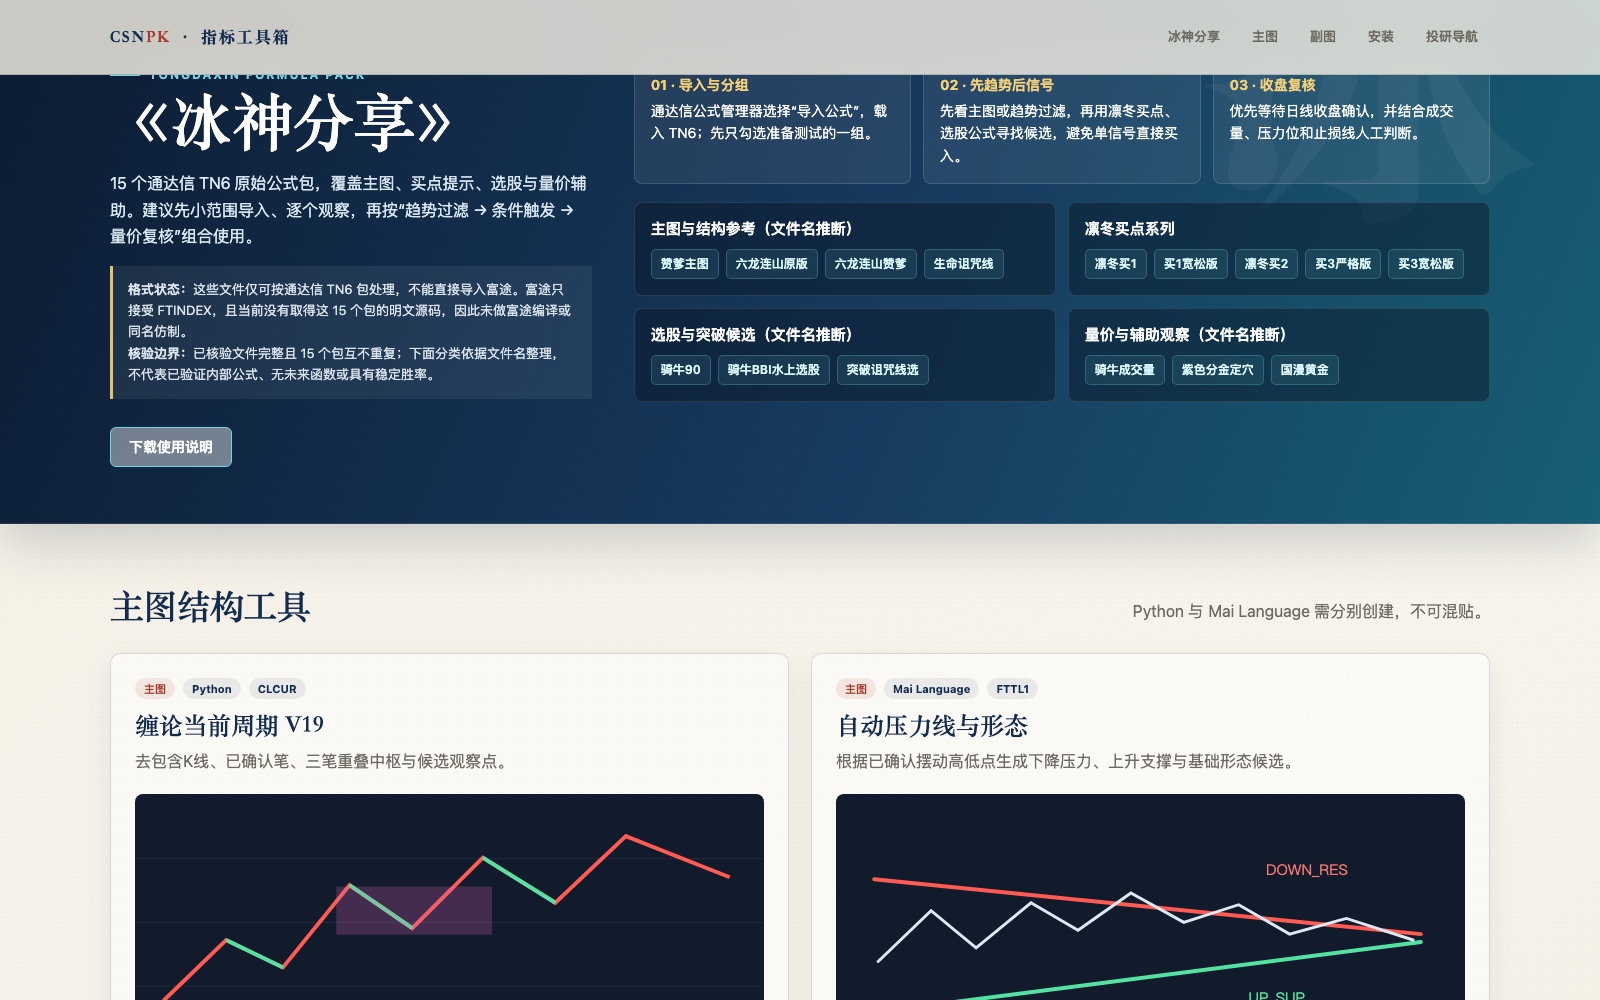
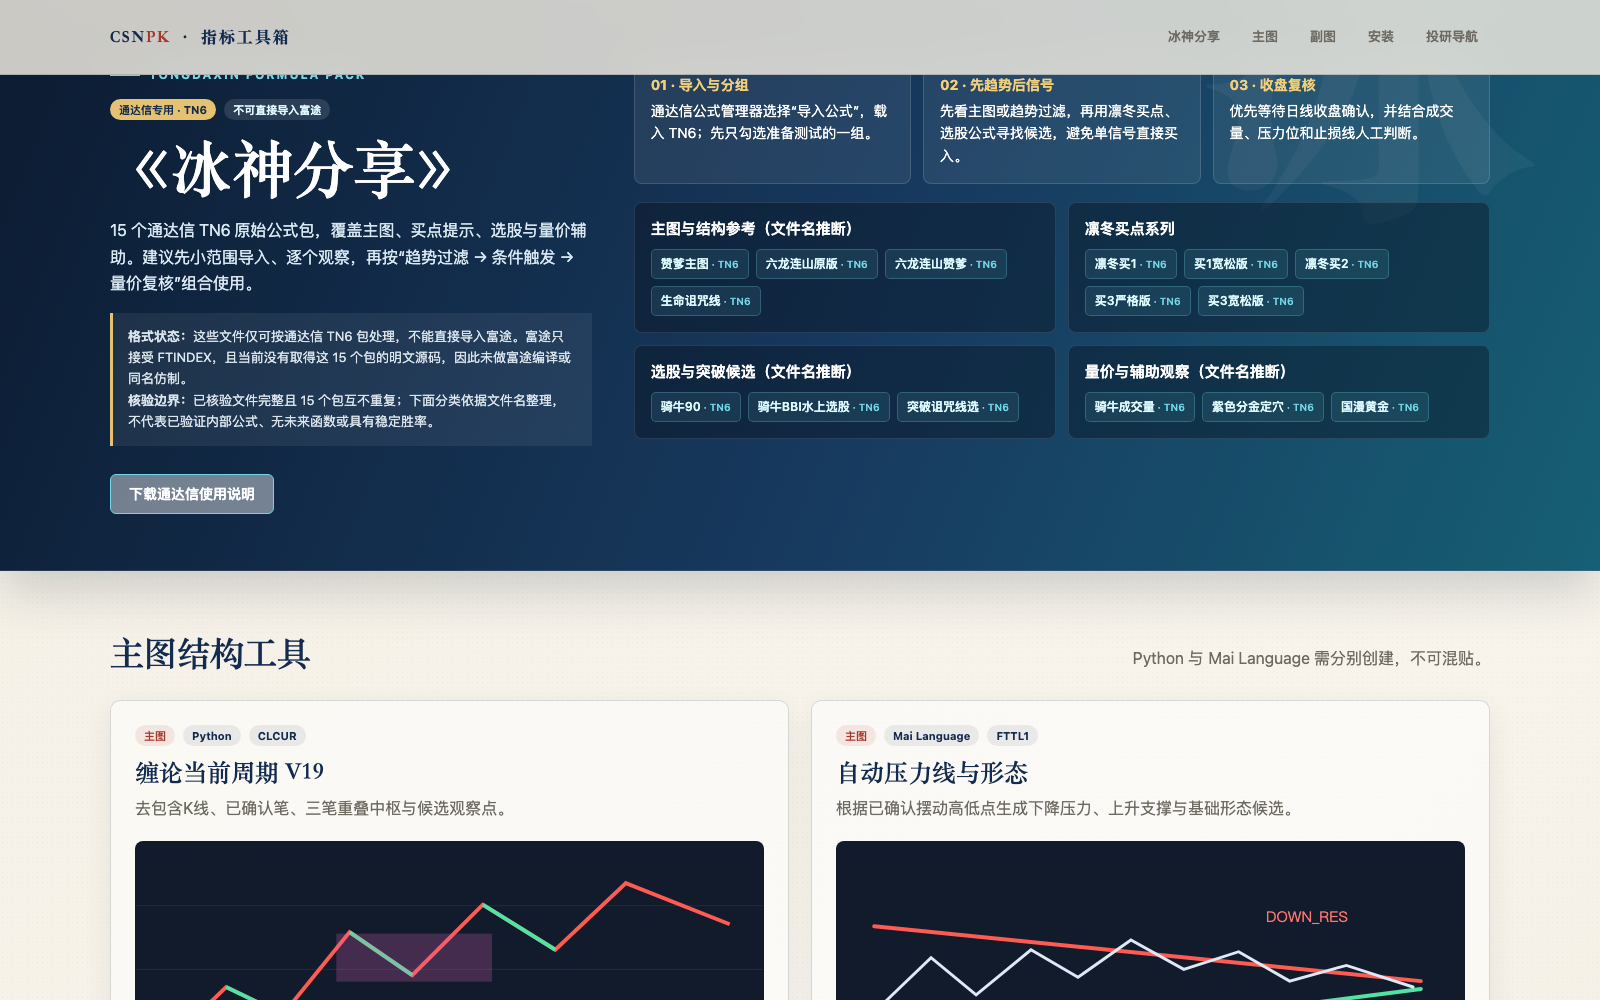
Clarify TongdaXin-only indicator downloads

diff --git a/futu-indicators/index.html b/futu-indicators/index.html
@@ -80,6 +80,7 @@
     .pack-group h3{color:#fff;font:800 15px/1.3 -apple-system,BlinkMacSystemFont,"PingFang SC",sans-serif;margin-bottom:10px}
     .pack-links{display:flex;gap:7px;flex-wrap:wrap}
     .pack-links a{padding:7px 9px;border-radius:5px;text-decoration:none;background:rgba(113,214,229,.10);border:1px solid rgba(113,214,229,.26);color:#dffbff;font:600 12px/1.2 -apple-system,BlinkMacSystemFont,"PingFang SC",sans-serif}
+    .pack-links a:after{content:" · TN6";color:#71d6e5;font-size:10px}
     .pack-links a:hover{background:rgba(113,214,229,.22)}
     footer{padding:34px 0 54px;border-top:1px solid var(--line);color:var(--muted);font:13px/1.7 -apple-system,BlinkMacSystemFont,"PingFang SC",sans-serif}
     @media(max-width:860px){.hero{grid-template-columns:1fr;padding-top:54px}.hero-board{transform:none}.grid{grid-template-columns:1fr}.install{grid-template-columns:1fr}.topbar{align-items:flex-start;flex-direction:column}.section-head{align-items:flex-start;flex-direction:column}.steps,.ice-steps,.pack-groups{grid-template-columns:1fr}.bingshen-inner{grid-template-columns:1fr}.wrap{width:min(100% - 24px,1380px)}h1{font-size:44px}}
@@ -125,10 +126,11 @@
       <div class="wrap bingshen-inner">
         <div>
           <div class="eyebrow">TongdaXin Formula Pack</div>
+          <div class="meta" style="margin:16px 0 10px"><span class="tag" style="background:#e5c272;color:#122b4d">通达信专用 · TN6</span><span class="tag" style="background:rgba(255,255,255,.12);color:#dffbff">不可直接导入富途</span></div>
           <h2>《冰神分享》</h2>
           <p class="bingshen-lead">15 个通达信 TN6 原始公式包，覆盖主图、买点提示、选股与量价辅助。建议先小范围导入、逐个观察，再按“趋势过滤 → 条件触发 → 量价复核”组合使用。</p>
           <p class="bingshen-note"><strong>格式状态：</strong>这些文件仅可按通达信 TN6 包处理，不能直接导入富途。富途只接受 FTINDEX，且当前没有取得这 15 个包的明文源码，因此未做富途编译或同名仿制。<br><strong>核验边界：</strong>已核验文件完整且 15 个包互不重复；下面分类依据文件名整理，不代表已验证内部公式、无未来函数或具有稳定胜率。</p>
-          <a class="btn secondary" style="color:#fff;border-color:#71d6e5;margin-top:15px" href="bingshen/冰神分享_使用说明.txt" download>下载使用说明</a>
+          <a class="btn secondary" style="color:#fff;border-color:#71d6e5;margin-top:15px" href="bingshen/冰神分享_使用说明.txt" download>下载通达信使用说明</a>
         </div>
         <div>
           <div class="ice-steps">
